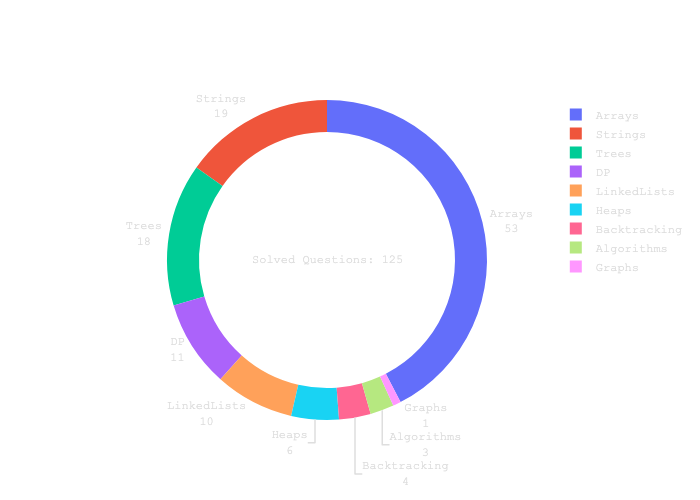
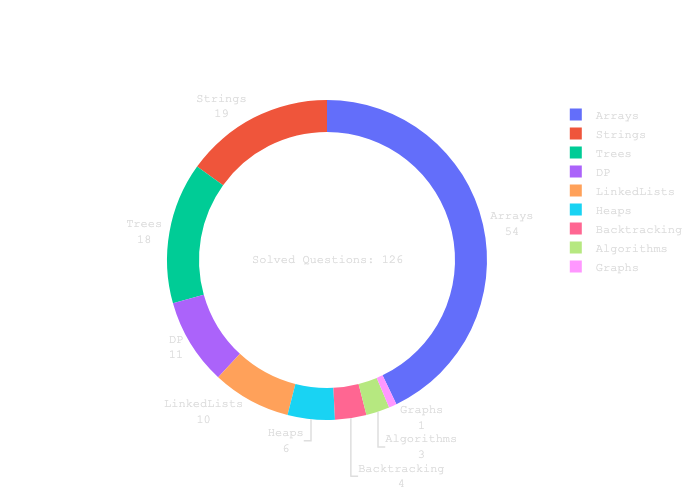
min time to finish all jobs

diff --git a/Arrays/minTimetoFinishAllJobs.py b/Arrays/minTimetoFinishAllJobs.py
@@ -1,0 +1,17 @@
+from typing import List
+from math import ceil
+
+
+def minimumTime(jobs: List[int], workers: List[int]) -> int:
+    jobs.sort()
+    workers.sort()
+
+    minTime = ceil(jobs[0] / workers[0])
+    N = len(jobs)
+    for i in range(1, N):
+        minTime = max(minTime, ceil(jobs[i] / workers[i]))
+
+    return minTime
+
+
+print(minimumTime([5, 2, 4], [1, 7, 5]))
